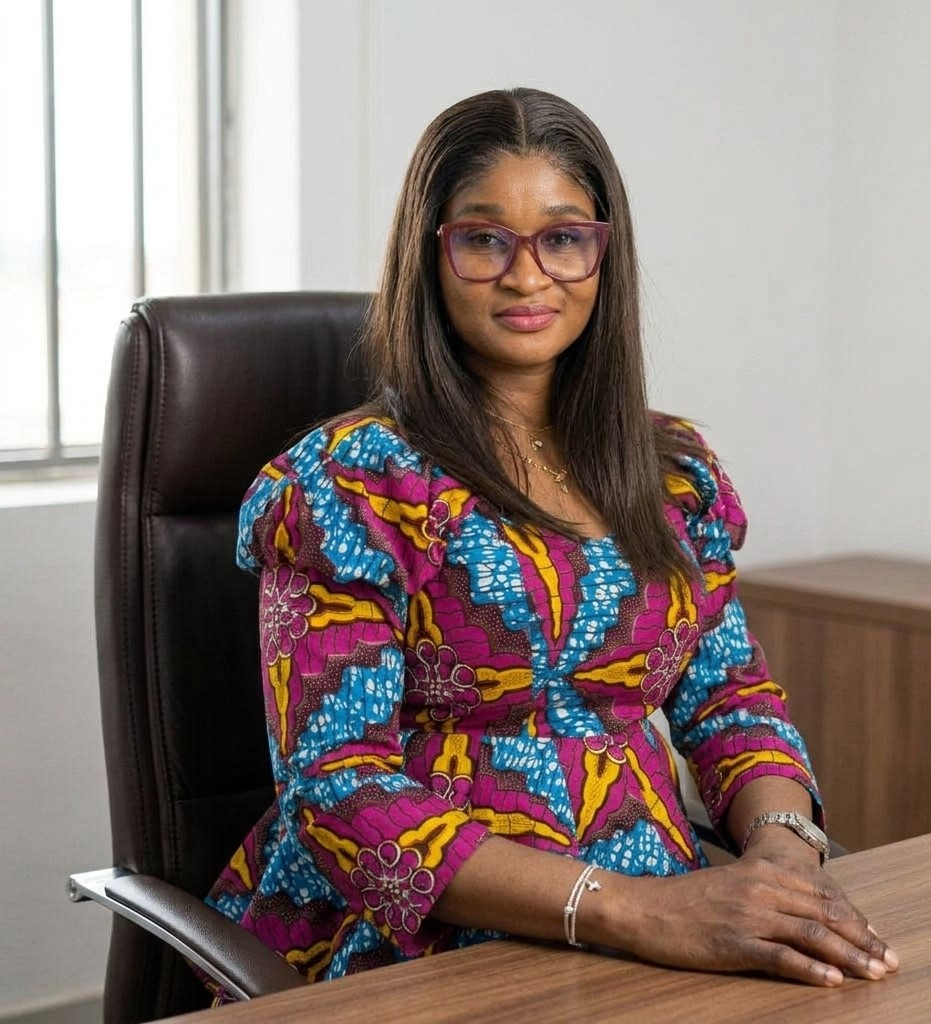
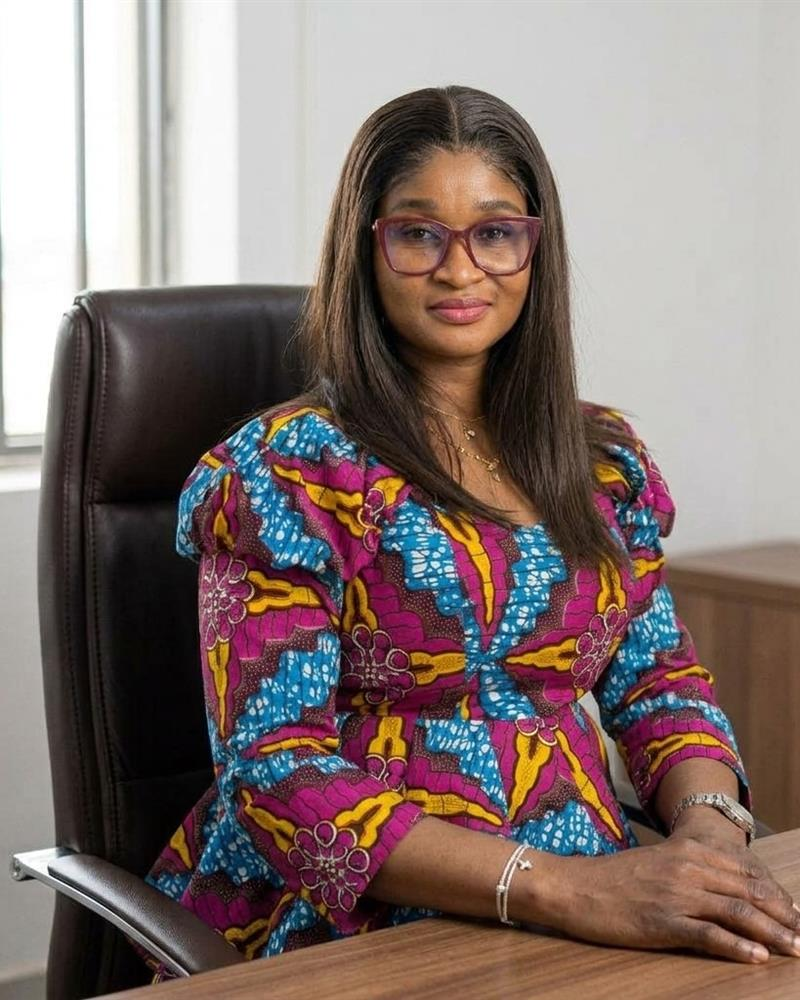
fix: standardize all team photos to 800x1000 and lock 4:5 aspect ratio

diff --git a/src/app/team/page.tsx b/src/app/team/page.tsx
@@ -124,12 +124,12 @@ export default function TeamPage() {
                 className="group relative rounded-2xl overflow-hidden shadow-lg hover:shadow-2xl transition-all duration-500 bg-white cursor-pointer"
               >
                 <div className="absolute top-0 left-0 right-0 h-1.5 bg-gradient-to-r from-[#f59e0b] via-[#d97706] to-[#f59e0b] z-10" />
-                <div className="relative h-64 sm:h-72 overflow-hidden bg-[#052e16]">
+                <div className="relative aspect-[4/5] overflow-hidden bg-[#052e16]">
                   <Image
                     src={member.image}
                     alt={member.name}
                     fill
-                    className="object-contain transition-transform duration-700 group-hover:scale-105 p-4"
+                    className="object-cover transition-transform duration-700 group-hover:scale-105"
                     sizes="(max-width: 640px) 100vw, 25vw"
                   />
                   <div className="absolute inset-0 bg-gradient-to-t from-[#052e16]/90 via-[#052e16]/20 to-transparent" />
@@ -158,12 +158,12 @@ export default function TeamPage() {
                 className="group relative rounded-2xl overflow-hidden shadow-lg hover:shadow-2xl transition-all duration-500 bg-white cursor-pointer"
               >
                 <div className="absolute top-0 left-0 right-0 h-1.5 bg-gradient-to-r from-[#f59e0b] via-[#d97706] to-[#f59e0b] z-10" />
-                <div className="relative h-64 sm:h-72 overflow-hidden bg-[#052e16]">
+                <div className="relative aspect-[4/5] overflow-hidden bg-[#052e16]">
                   <Image
                     src={member.image}
                     alt={member.name}
                     fill
-                    className="object-contain transition-transform duration-700 group-hover:scale-105 p-4"
+                    className="object-cover transition-transform duration-700 group-hover:scale-105"
                     sizes="(max-width: 640px) 100vw, 25vw"
                   />
                   <div className="absolute inset-0 bg-gradient-to-t from-[#052e16]/90 via-[#052e16]/20 to-transparent" />
@@ -258,12 +258,12 @@ export default function TeamPage() {
               </svg>
             </button>
 
-            <div className="relative h-64 sm:h-[28rem] overflow-hidden bg-[#052e16]">
+            <div className="relative aspect-[4/5] sm:aspect-[3/4] overflow-hidden bg-[#052e16]">
               <Image
                 src={selectedMember.image}
                 alt={selectedMember.name}
                 fill
-                className="object-contain p-8"
+                className="object-cover"
                 sizes="(max-width: 768px) 100vw, 768px"
               />
               <div className="absolute inset-0 bg-gradient-to-t from-[#052e16] via-[#052e16]/40 to-transparent" />
